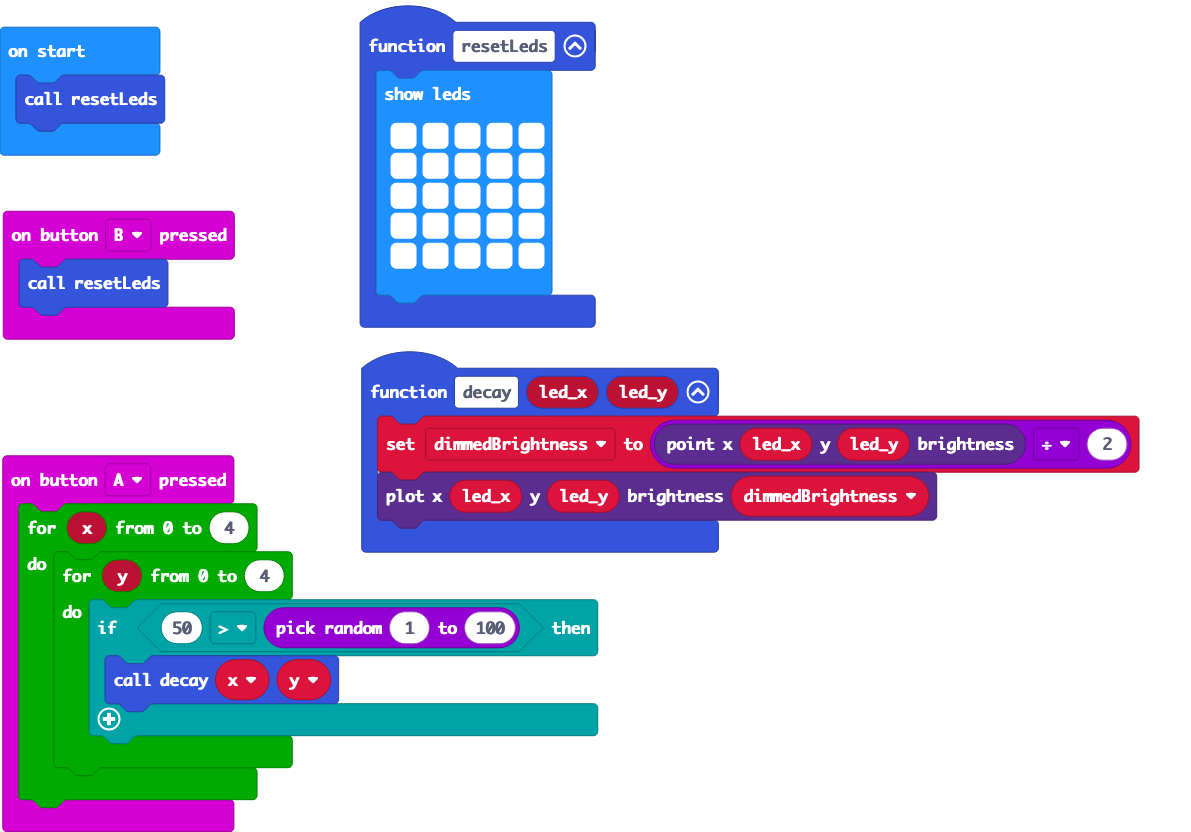
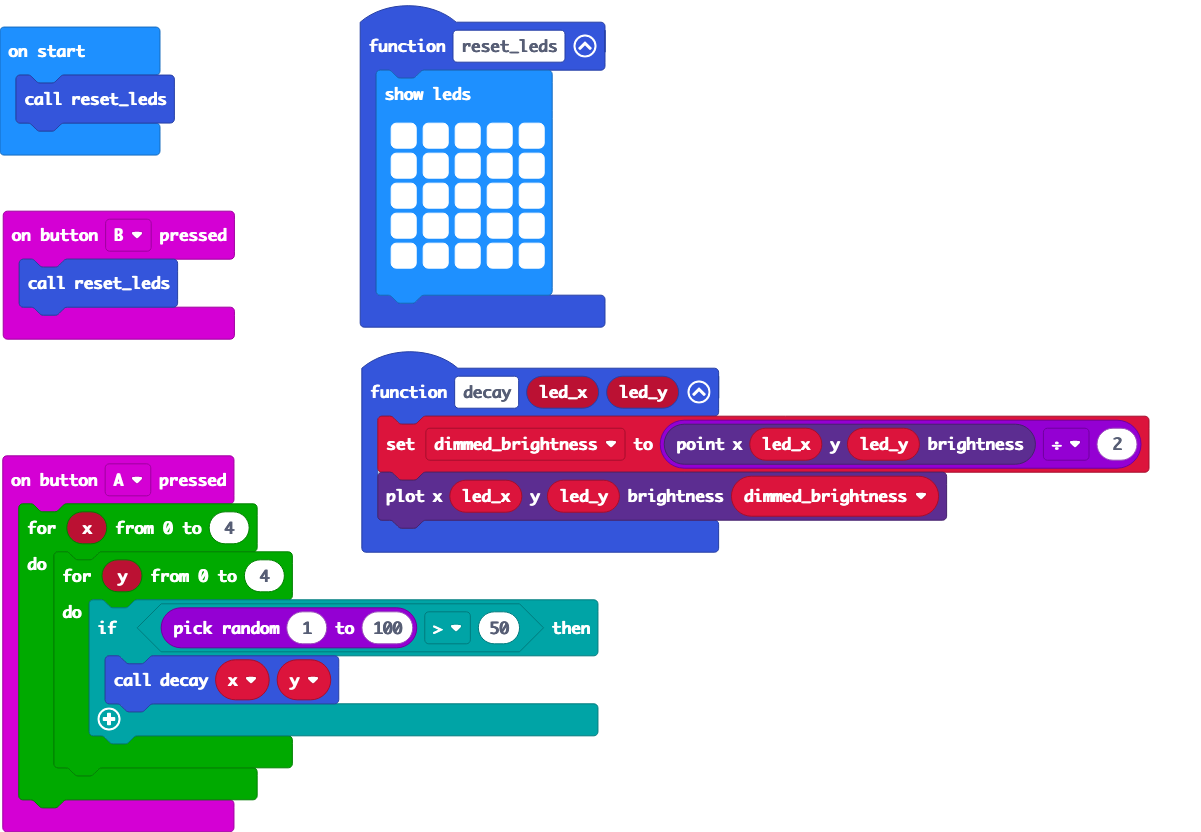
casing fixed

diff --git a/main.ts b/main.ts
@@ -1,8 +1,17 @@
 function decay (led_x: number, led_y: number) {
-    dimmedBrightness = led.pointBrightness(led_x, led_y) / 2
-    led.plotBrightness(led_x, led_y, dimmedBrightness)
+    dimmed_brightness = led.pointBrightness(led_x, led_y) / 2
+    led.plotBrightness(led_x, led_y, dimmed_brightness)
 }
-function resetLeds () {
+input.onButtonPressed(Button.A, function () {
+    for (let x = 0; x <= 4; x++) {
+        for (let y = 0; y <= 4; y++) {
+            if (randint(1, 100) > 50) {
+                decay(x, y)
+            }
+        }
+    }
+})
+function reset_leds () {
     basic.showLeds(`
         # # # # #
         # # # # #
@@ -11,17 +20,8 @@ function resetLeds () {
         # # # # #
         `)
 }
-input.onButtonPressed(Button.A, function () {
-    for (let x = 0; x <= 4; x++) {
-        for (let y = 0; y <= 4; y++) {
-            if (50 > randint(1, 100)) {
-                decay(x, y)
-            }
-        }
-    }
-})
 input.onButtonPressed(Button.B, function () {
-    resetLeds()
+    reset_leds()
 })
-let dimmedBrightness = 0
-resetLeds()
+let dimmed_brightness = 0
+reset_leds()
